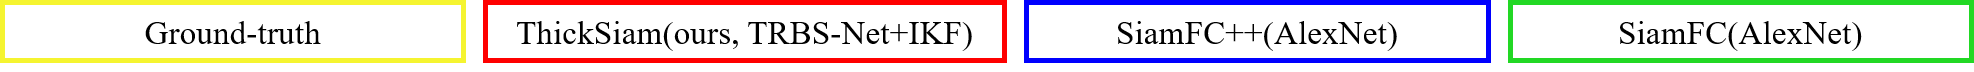
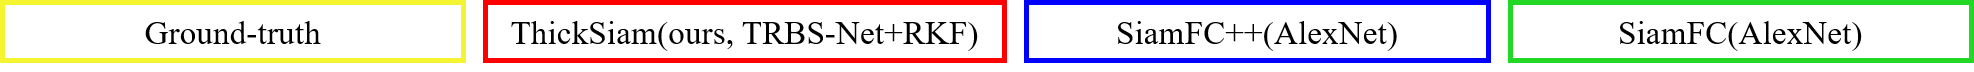
RKF

Changed region(s): [[0.2472, 0.2778, 0.4944, 0.6111]]

diff --git a/README.md b/README.md
@@ -2,12 +2,12 @@
 
 ## Introduction
 
-High-resolution satellite videos are playing an increasingly important role as a means of monitoring dynamic ground targets. Currently, objects in satellite videos are confronted with small size, partial occlusion, residual shadow, poor target-background discriminability, shape deformation and poor general field illumination challenges. To solve the above problems, we design a ThickSiam framework, which consists of a Thickened Residual Block Siamese Network (TRBS-Net) and a Remoulded Kalman Filter (RKF) module. The TRBS-Net is stacked by well-designed thickened residual blocks and thickened maxpooling residual block, while the RKF module is designed to simultaneously correct the trajectory and size of the target. In this paper, we propose an N-frame-convergence mechanism to deal with the burn-in period problem existed in RKF module and combine the results of TRBS-Net and RKF modules by frames. We also construct a testing dataset suitable for satellite video single object tracking (SOT) task. We conducted ablation experiments on our constructed dataset and compared the proposed ThickSiam framework with other nineteen state-of-the-art trackers including different features and backbones. The comparison results show that our ThickSiam tracker obtains a precision value of 0.991 and a success value of 0.755 while running at 56.849 frames per second (FPS) implemented on a single NVIDIA GTX1070Ti GPU.
+High-resolution satellite videos are playing an increasingly important role as a means of monitoring dynamic ground targets. Currently, objects in satellite videos are confronted with small size, partial occlusion, residual shadow, poor target-background discriminability, shape deformation, and poor general field illumination challenges. To solve the above problems, we design a ThickSiam framework in this paper, which consists of a Thickened Residual Block Siamese Network (TRBS-Net) and a Remoulded Kalman Filter (RKF) module. The TRBS-Net is stacked by well-designed thickened residual blocks and thickened maxpooling residual block, while the RKF module is designed to simultaneously correct the trajectory and size of the target. In this framework, we propose an N-frame-convergence mechanism to deal with the burn-in period problem existed in RKF module and combine the results of TRBS-Net and RKF modules by frames. We also construct a testing dataset suitable for satellite video single object tracking (SOT) task. We conducted ablation experiments on this dataset and compared the proposed ThickSiam framework with other 19 state-of-the-art trackers. The comparison results show that our ThickSiam tracker obtains a precision value of 0.991 and a success value of 0.755 while running at 56.849 frames per second (FPS) implemented on a single NVIDIA GTX1070Ti GPU.
 
 ### Challenges
 
 <div align=center>
-<img src = "demo/challenges.png" />
+<img src = "demo/issue-h.png" />
 </div>
 
 &nbsp;
@@ -52,7 +52,7 @@ The tracking results of train-2 target
 
 ### Validation of The ThickSiam
 
-We modularly verified the effectiveness of the overall framework based on three training schemes: training with individual COCO dataset, training with individual DIOR dataset, and training with joint COCO and DIOR datasets. We stacked the original residual block and down-sampling residual block to assemble the baseline network. The precision plots and success plots about the comparison results of different methods with three training schemes are shown in the figure below.
+We modularly verified the effectiveness of the overall framework based on three training schemes: training with individual COCO dataset, training with individual DIOR dataset, and training with joint COCO and DIOR datasets. We stacked the original residual block and down-sampling residual block to assemble the baseline network and compared it with TRBS-Net. We compared the RKF module with the standard Kalman Filter (KF for short), which only predicts the center point coordinates of the tracked object. The precision plots and success plots about the comparison results of different methods with three training schemes are shown in the figure below.
 
 <img src="demo/plot-E1.png" />
 
